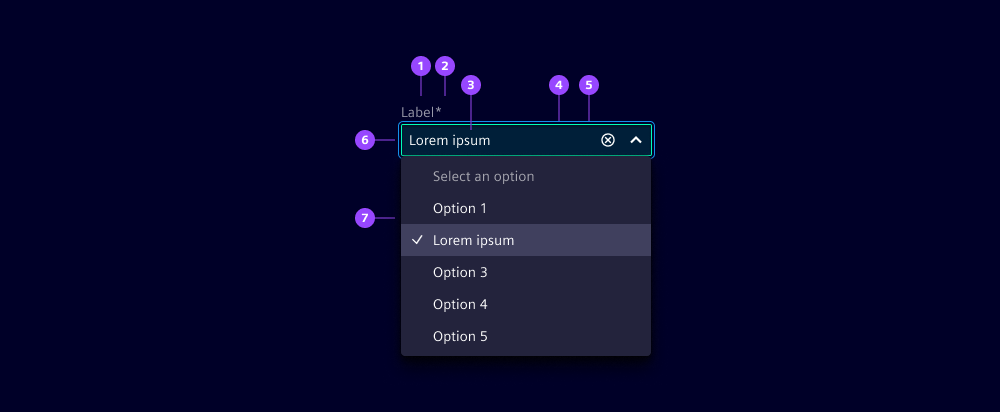
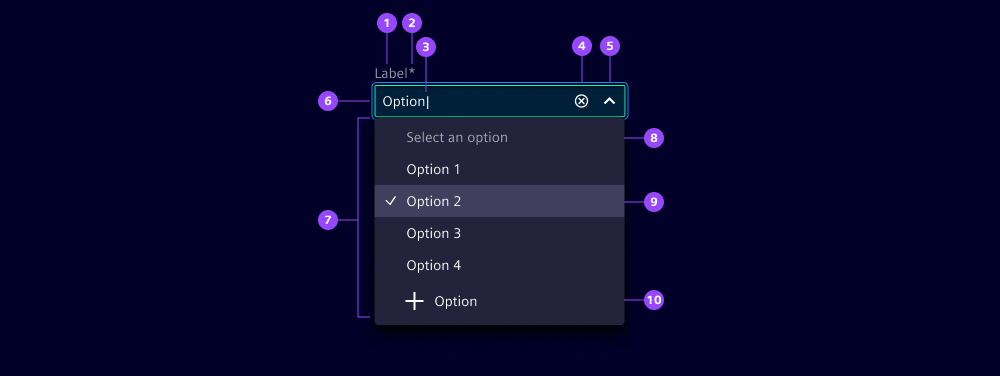
Fixed select

Changed region(s): [[0.31, 0.0293, 0.682, 0.8777], [0.558, 0.0878, 0.62, 0.1463]]

diff --git a/docs/components/select/guide.md b/docs/components/select/guide.md
@@ -11,7 +11,7 @@ The select component supports single or multiple selections and the editable var
 
 1. Label
 2. Required indicator
-3. Placeholder
+3. Value
 4. Clear button
 5. Open dropdown button
 6. Container
